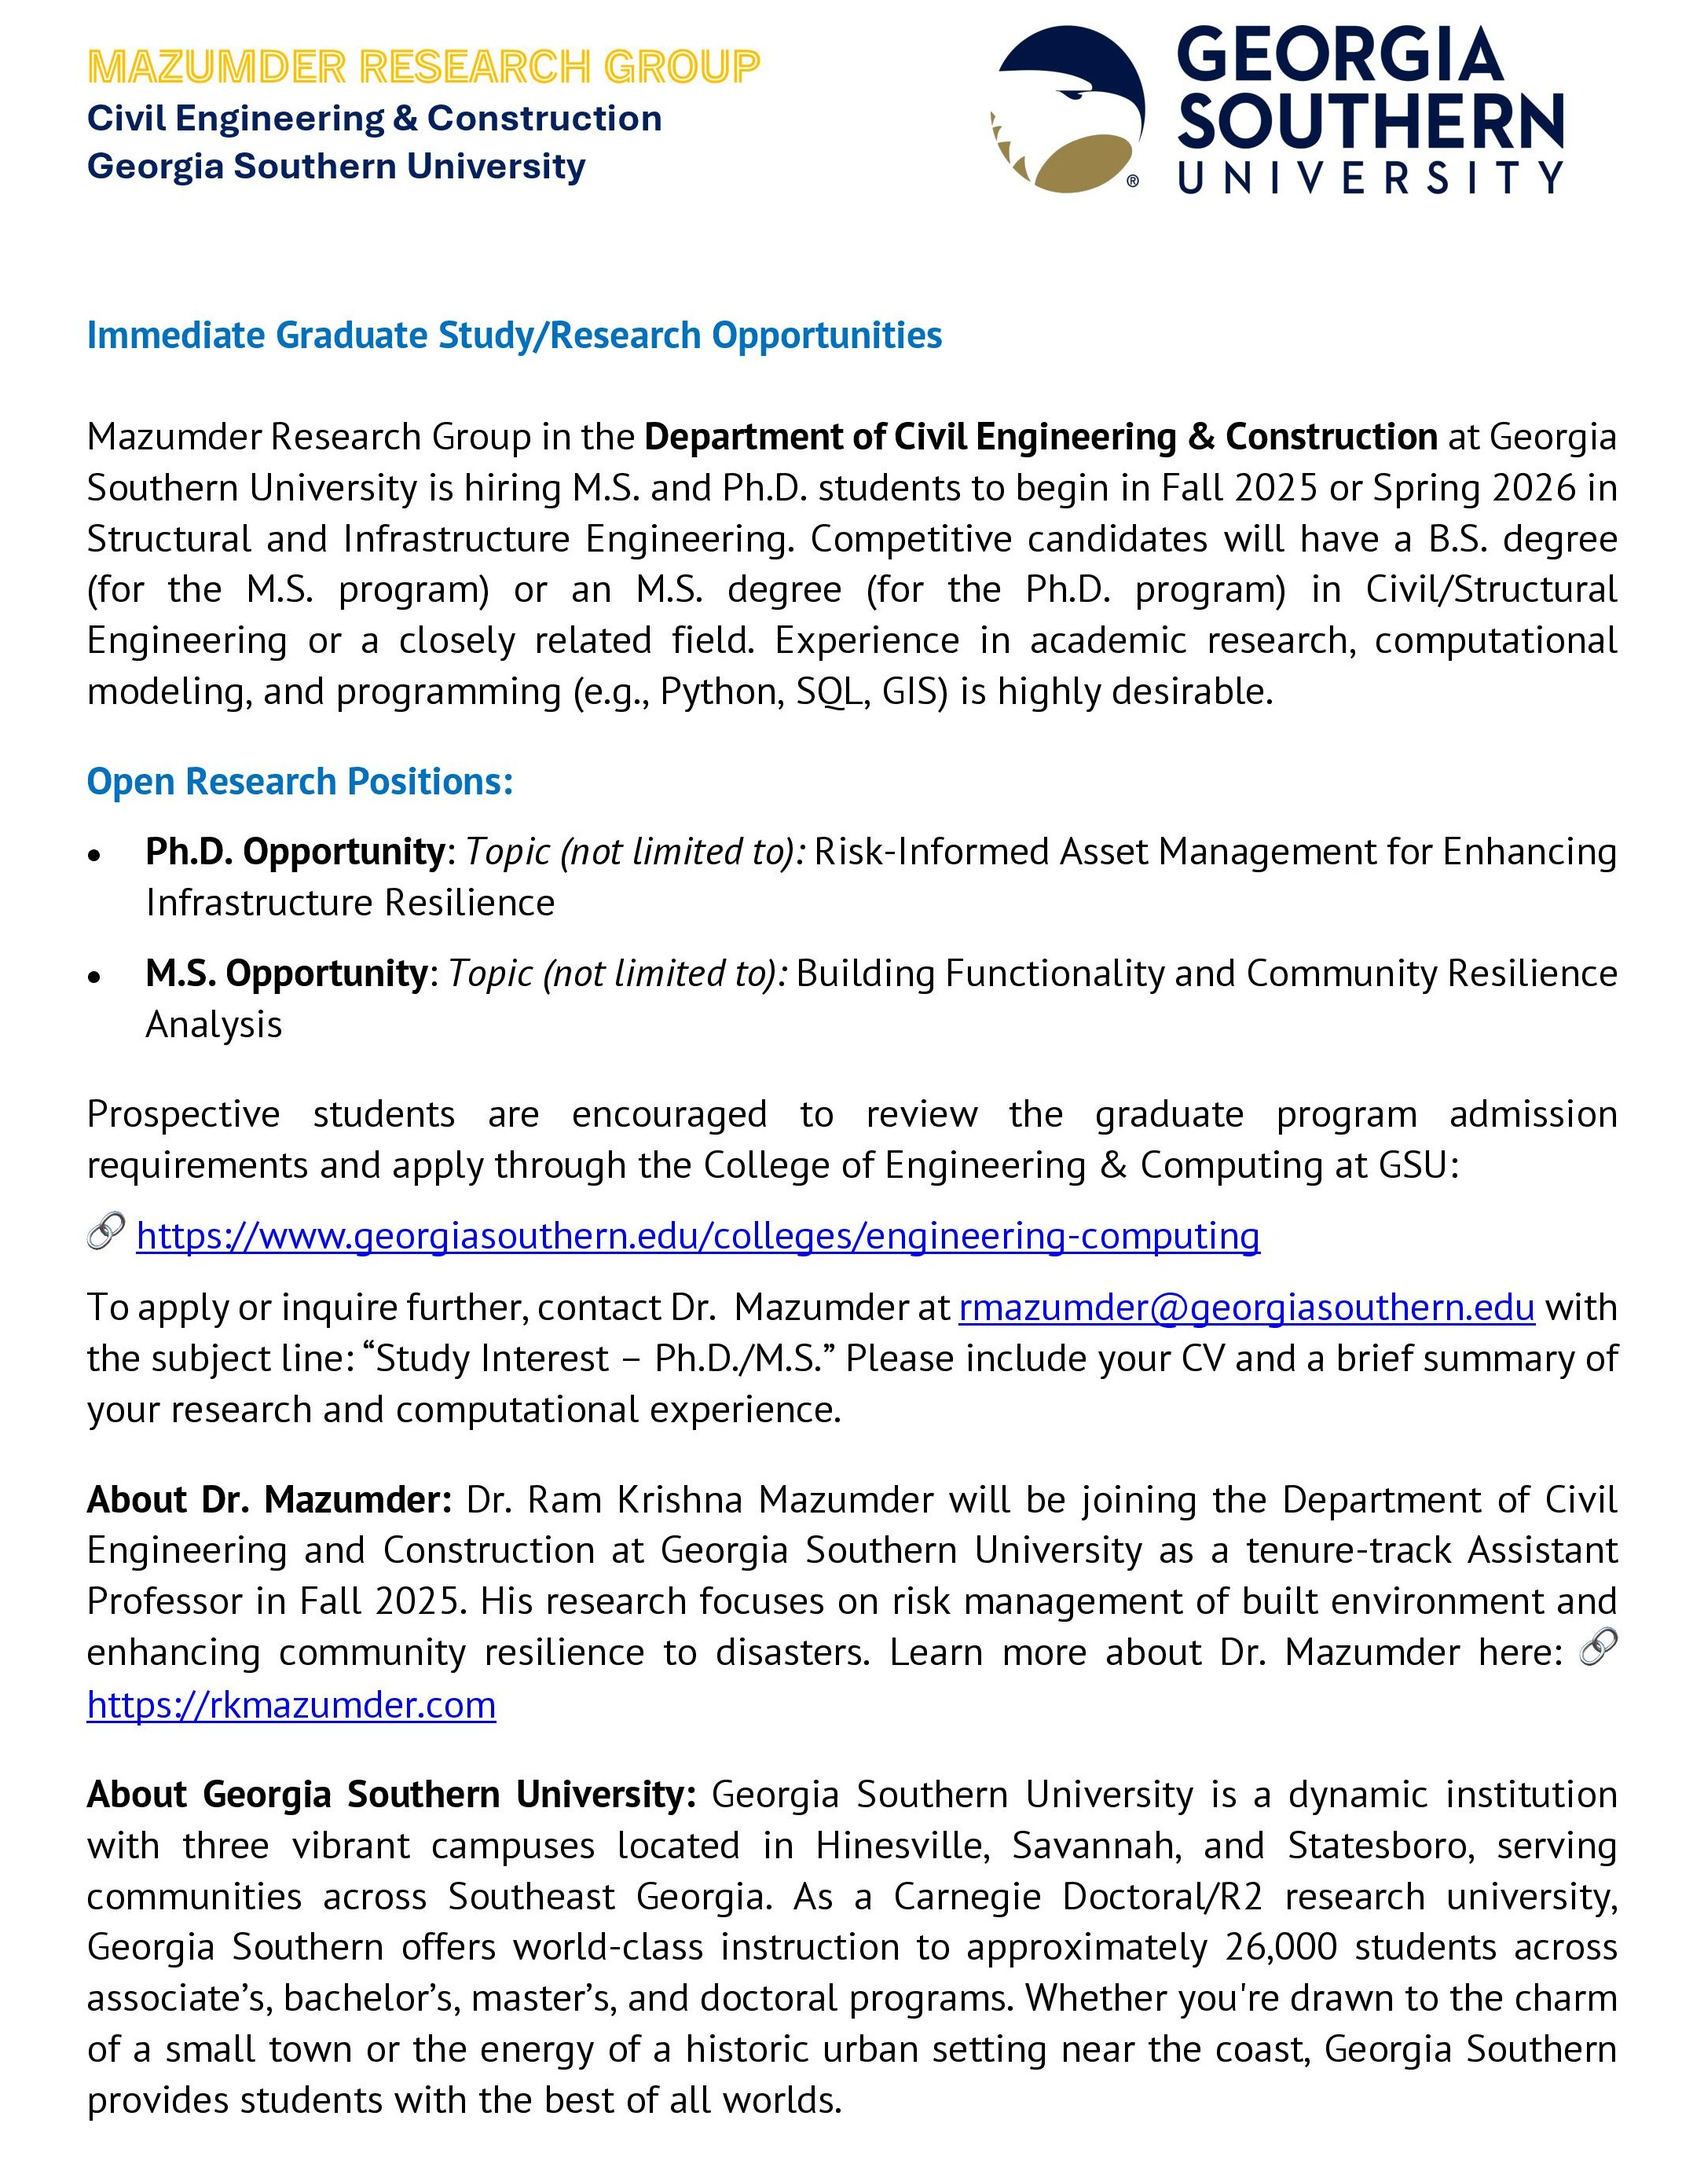
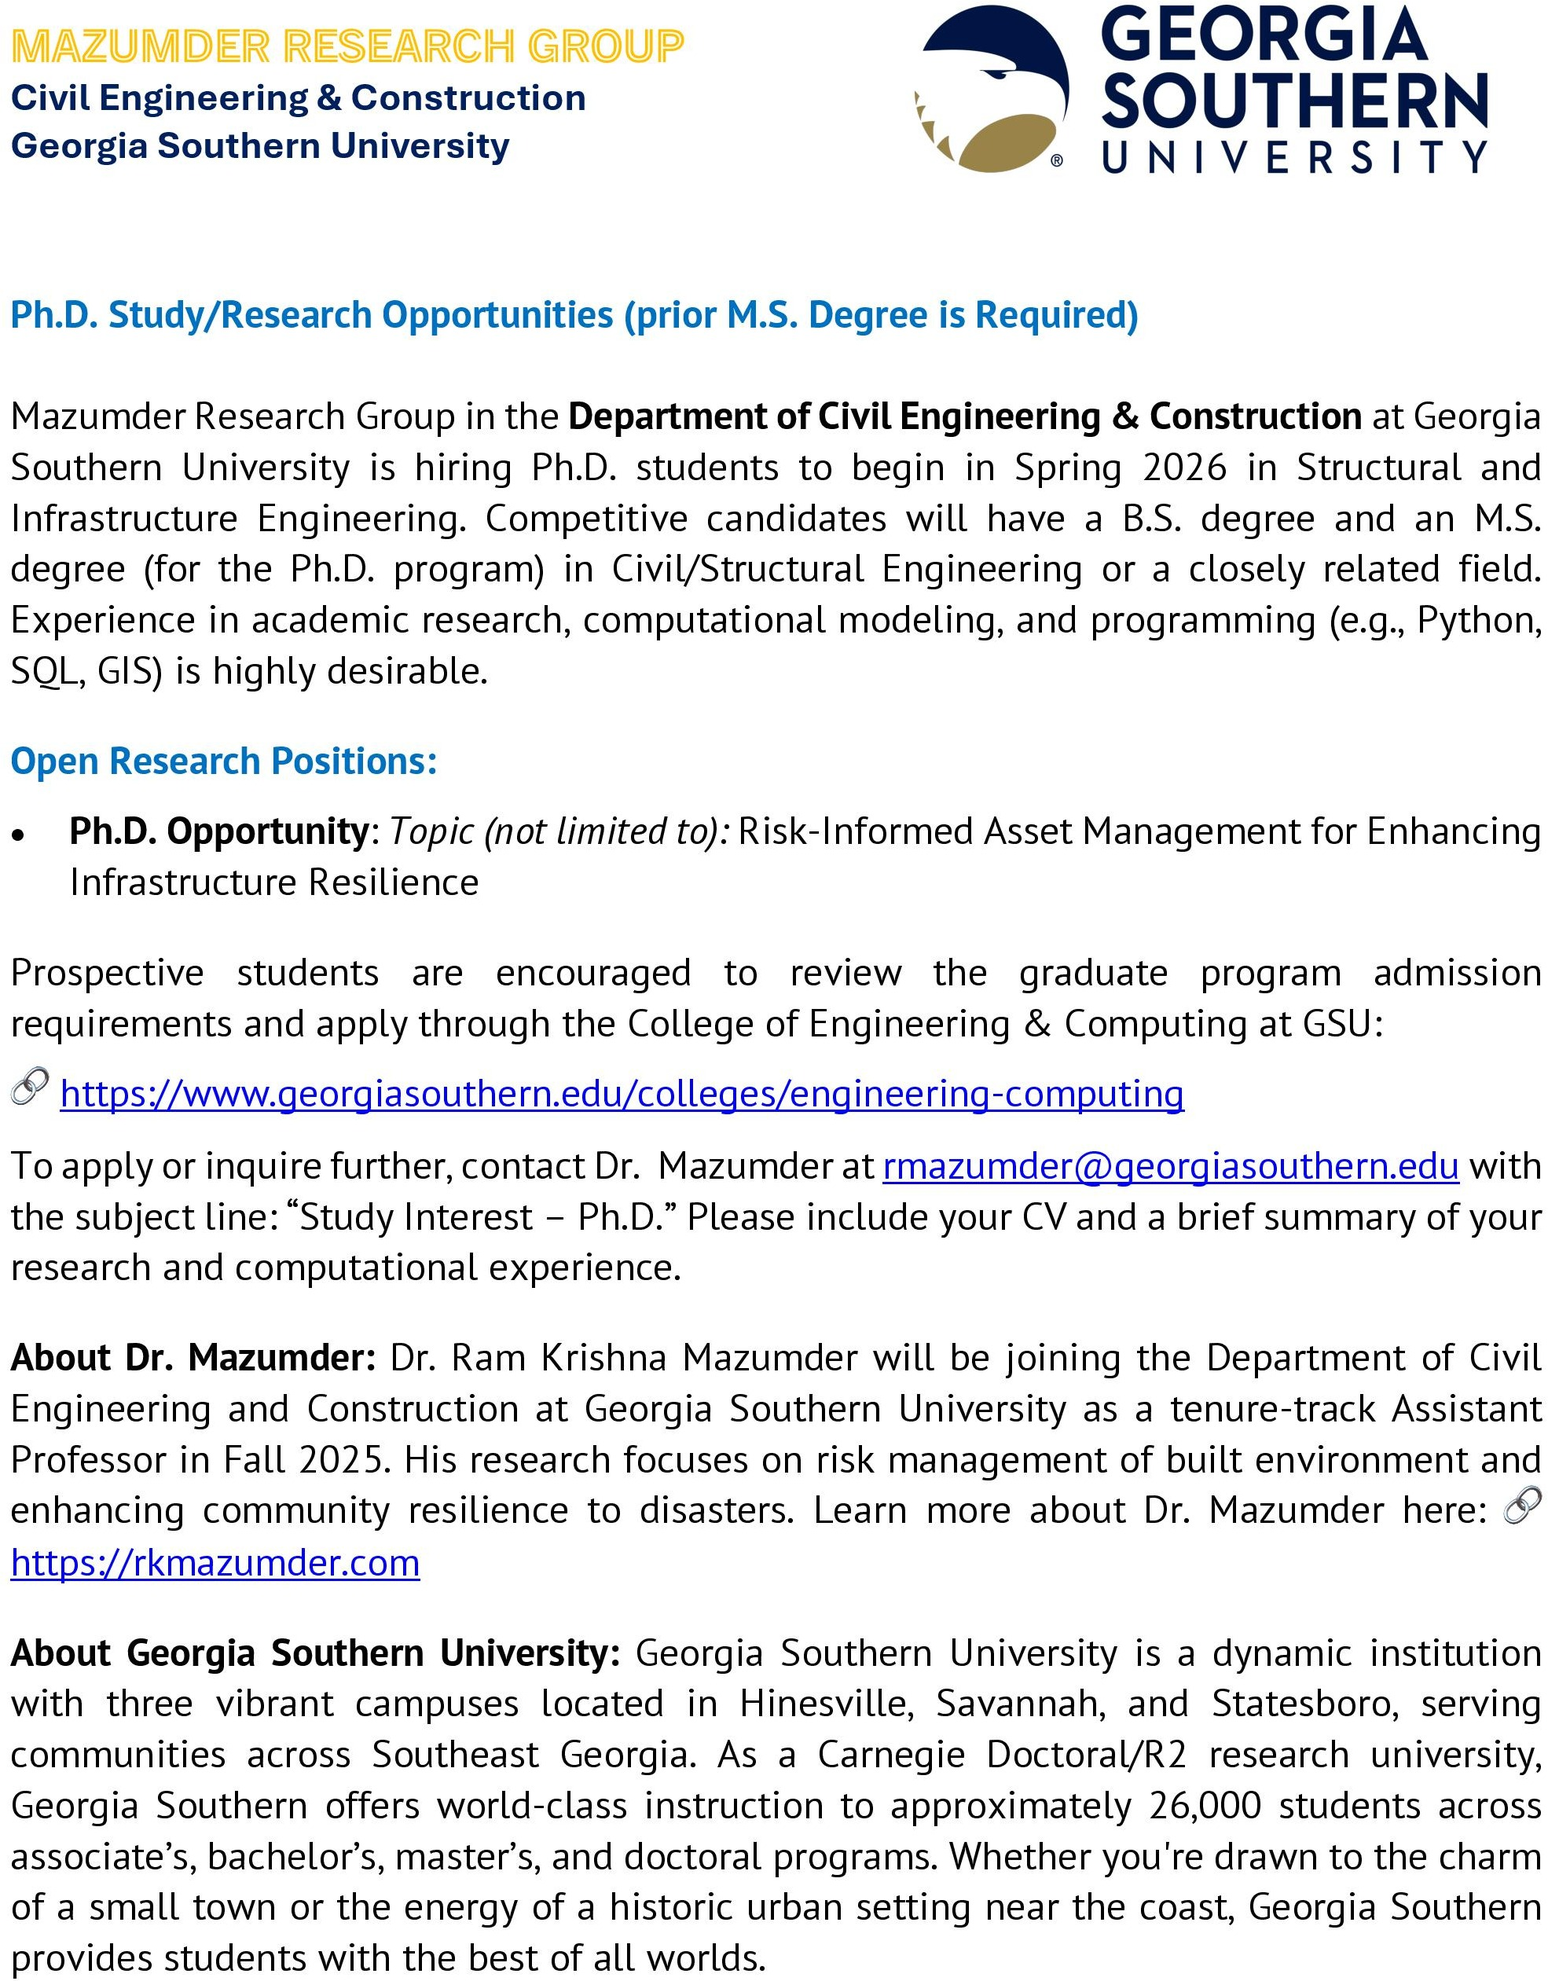
dad
ada

Changed region(s): [[0.0, 0.1238, 1.0, 1.0], [0.0, 0.0, 0.4645, 0.0928], [0.5883, 0.0, 0.9599, 0.0928]]

diff --git a/research/index.html b/research/index.html
@@ -206,18 +206,16 @@ My research primarily focuses on risk management of built environment subjected 
   
 </ul>
 
-<h3 id="openings">Openings: Research Assistantship</h3>
+<h3 id="openings">Openings: Graduate Research Assistantship</h3>
 
 <h4>Ph.D. Opportunity</h4>
 <p><strong>Topic (not limited to):</strong> Risk-Informed Asset Management for Enhancing Infrastructure Resilience</p>
 
-<h4>M.S. Opportunity</h4>
-<p><strong>Topic (not limited to):</strong> Building Functionality and Community Resilience Analysis</p>
 
-<p>Prospective students are encouraged to review the graduate program admission requirements and apply through the College of Engineering & Computing at GSU:</p>
+<p>Prospective students (currently accepting PhD students only - must have a prior MS degree) are encouraged to review the graduate program admission requirements and apply through the College of Engineering & Computing at GSU:</p>
 <p>🔗 <a href="https://www.georgiasouthern.edu/colleges/engineering-computing" target="_blank">https://www.georgiasouthern.edu/colleges/engineering-computing</a></p>
 
-<p>To apply or inquire further, contact Dr. Mazumder at <a href="mailto:rmazumder@georgiasouthern.edu">rmazumder@georgiasouthern.edu</a> with the subject line: <strong>“Study Interest – Ph.D./M.S.”</strong> Please include your CV and a brief summary of your research and computational experience.</p>
+<p>To apply or inquire further, contact Dr. Mazumder at <a href="mailto:rmazumder@georgiasouthern.edu">rmazumder@georgiasouthern.edu</a> with the subject line: <strong>“Study Interest – Ph.D.”</strong> Please include your CV and a brief summary of your research and computational experience.</p>
 
 
 <img src="/assets/img/GRA.png" alt="Graduate Research Assistantship" width="500" />
